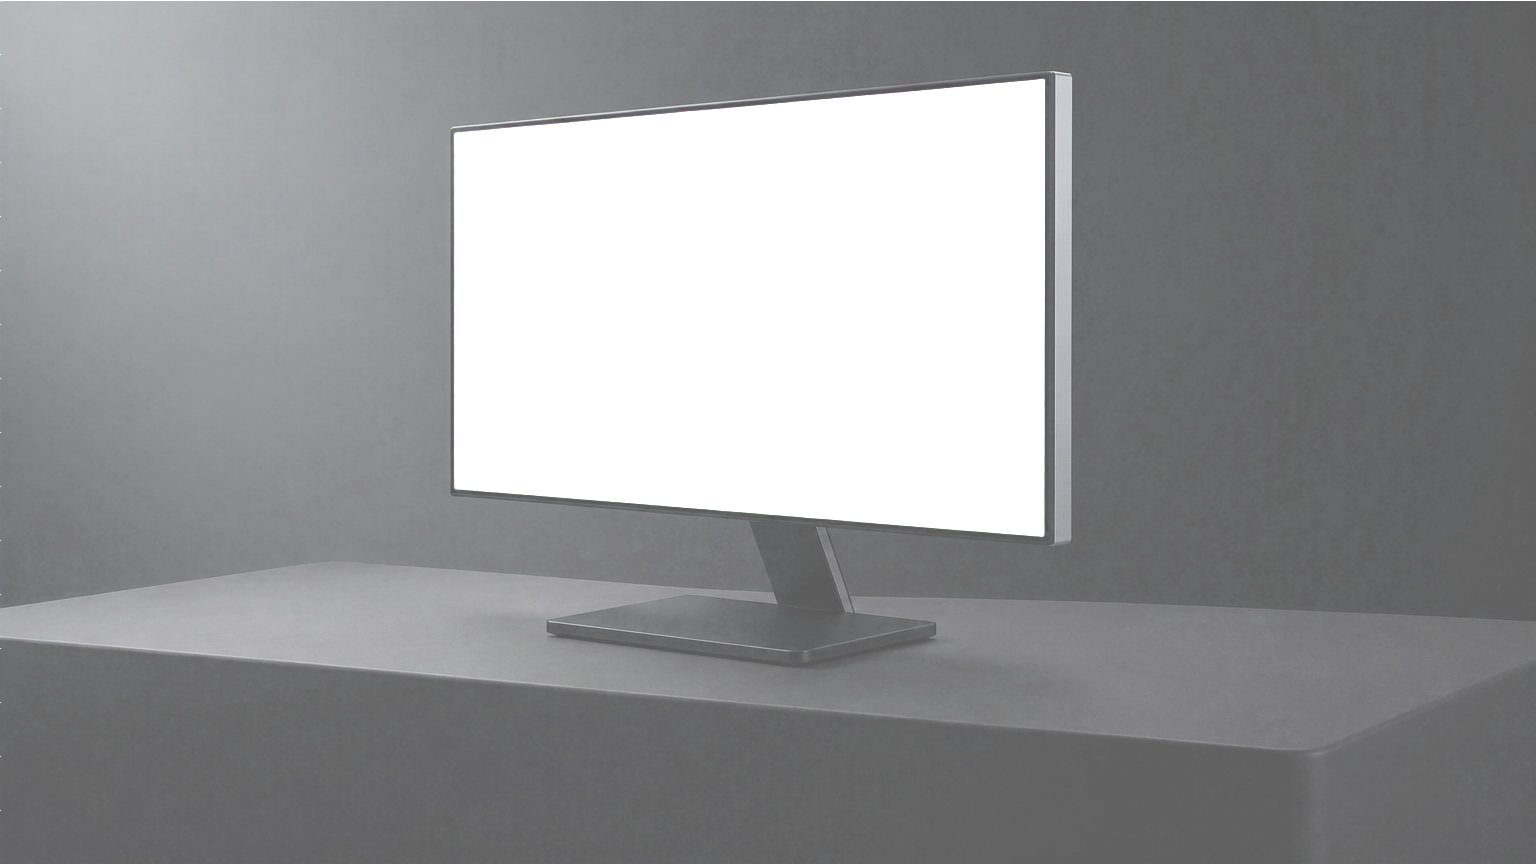
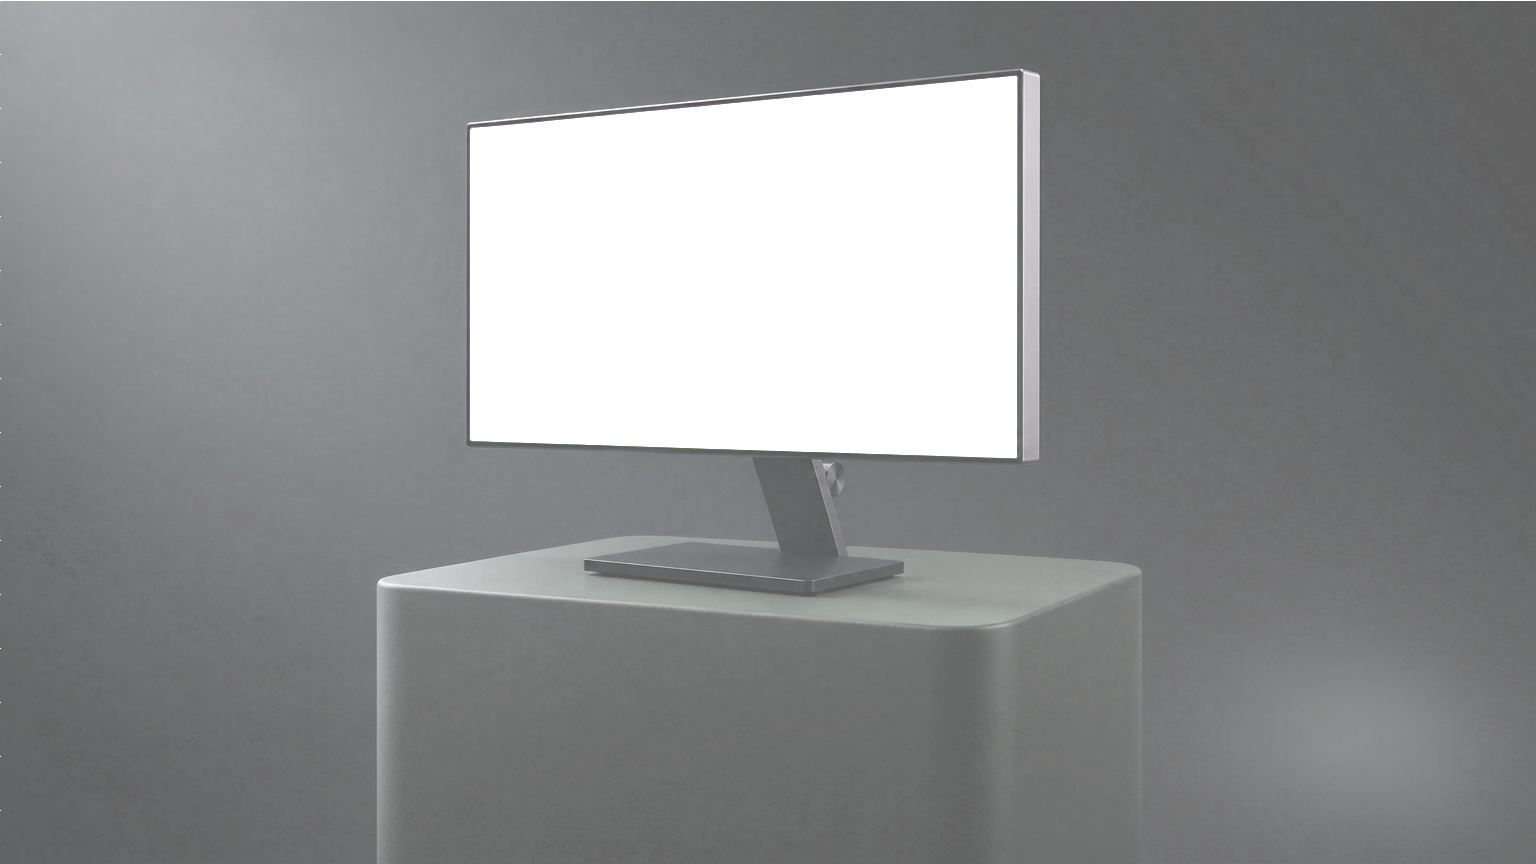
Devsign cover: freestanding plinth, Metalab framing; facts as label and muted value

Changed region(s): [[0.0, 0.0625, 0.75, 1.0], [0.7188, 0.8125, 0.9688, 0.9688], [0.5, 0.8125, 0.6562, 0.8438]]

diff --git a/app/globals.css b/app/globals.css
@@ -7835,6 +7835,8 @@ p.dv-ivc-people { display: flex; flex-wrap: wrap; align-items: center; gap: 8px;
     radial-gradient(60% 70% at 30% 34%, rgb(120 124 132 / 0.08), transparent 70%),
     linear-gradient(180deg, light-dark(#202124, var(--bg)) 0%, #222326 24%, #1b1c1f 52%, #121315 74%, light-dark(#0c0c0e, var(--bg)) 100%); }
 @media (max-width: 47.99rem) { .devsign-hero.dh-cover .devsign-hero-details.devsign-hero-details { grid-template-columns: repeat(2, minmax(0, 1fr)); gap: 20px 16px; margin-top: 28px; } .devsign-hero.dh-cover .devsign-hero-details dd { font-size: 16px; } }
+/* Facts: columns size to their words, so the visible gaps between them are equal, flush to both edges of the cover. */
+@media (min-width: 64rem) { .devsign-hero.dh-cover .devsign-hero-details.devsign-hero-details { grid-template-columns: repeat(4, auto); justify-content: space-between; column-gap: 32px; } }
 /* Cover as a photographed mockup (HeroShot; supersedes the CSS 3D studio): a generated
    still scene (Devsign: monitor on a plinth in a dark studio; Gemini: a hand holding the
    phone in a bright cafe, after metalab.com/work/the-atlantic) with its screen keyed out,
@@ -7866,3 +7868,6 @@ p.dv-ivc-people { display: flex; flex-wrap: wrap; align-items: center; gap: 8px;
 /* The photo starts and ends as a plain rectangle, like metalab.com's cover (no fade into the page). */
 .devsign-hero.dh-cover[data-project="devsign"] .dh-shot { -webkit-mask-image: none; mask-image: none; }
 .devsign-hero.dh-cover { background: none; }
+/* Facts after metalab.com: the label in ink, the value muted, both 16–18px, no caps. */
+.devsign-hero.dh-cover .devsign-hero-details dt { color: var(--dh-ink, var(--ink)); font-size: 16px; font-weight: 500; letter-spacing: 0; text-transform: none; }
+.devsign-hero.dh-cover .devsign-hero-details dd { margin-top: 4px; color: var(--dh-muted, var(--muted)); font-size: 16px; font-weight: 400; }

diff --git a/components/devsign-hero.tsx b/components/devsign-hero.tsx
@@ -62,8 +62,8 @@ export function DevsignHero({ hero, name, alt, project }: { hero: DevsignHeroDat
             </div>
           </HeroShot>
         ) : (
-          <HeroShot src={withBase("/images/devsign/cover-studio.webp")} width={1536} height={864} alt="" mediaWidth={1600} mediaHeight={1000} crop={[250, 40, 1060, 560]}
-            matrix="matrix3d(0.227428509, -0.0446161299, 0, -0.000139906447, 0.00190323839, 0.360608816, 0, 4.22661452e-06, 0, 0, 1, 0, 450.29855, 130.924427, 0, 1)">
+          <HeroShot src={withBase("/images/devsign/cover-studio.webp")} width={1536} height={864} alt="" mediaWidth={1600} mediaHeight={1000} crop={[120, 30, 1320, 770]}
+            matrix="matrix3d(0.227968984, -0.0418524439, 0, -0.000115240874, 0, 0.314261321, 0, 0, 0, 0, 1, 0, 466.648, 127.24823, 0, 1)">
             <div className="devsign-hero-media">
               <div className="devsign-hero-window">
                 <div className="devsign-hero-screen"><DevsignLoop alt={alt} preload /></div>
